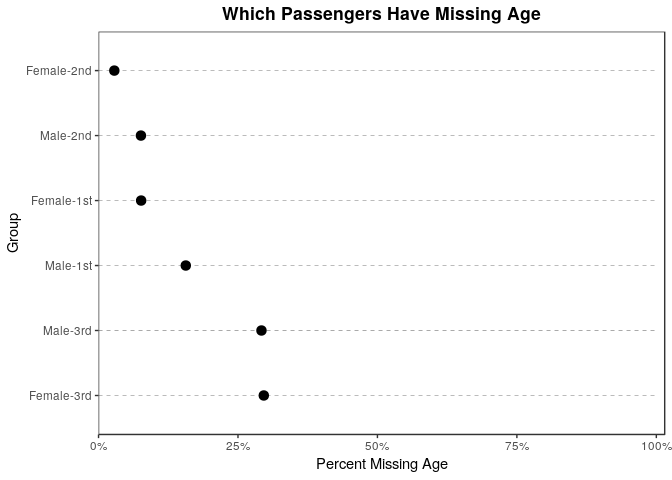
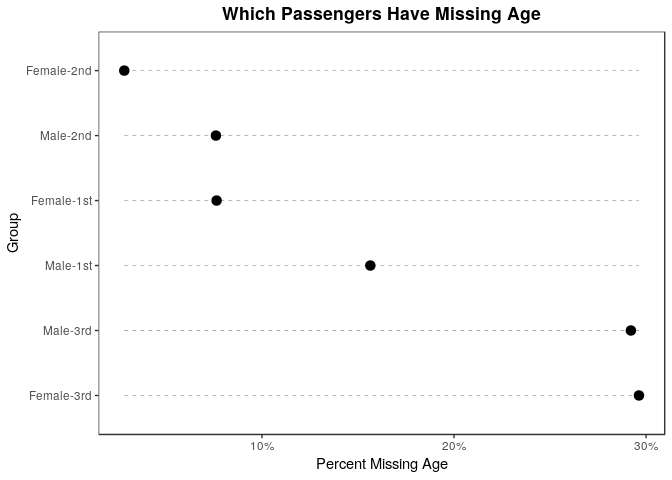
imp

diff --git a/source/Titanic.md b/source/Titanic.md
@@ -3,7 +3,8 @@ Modeling the Titanic Dataset
 Jesse Cambon
 20 August, 2018
 
--   [Exploratory Graphs](#exploratory-graphs)
+-   [Exploratory Analysis](#exploratory-analysis)
+-   [Imputation](#imputation)
 -   [Logistic Regression Model](#logistic-regression-model)
 -   [Linear Regression Model](#linear-regression-model)
 
@@ -25,6 +26,7 @@ library(xtable) # pretty table
 library(knitr)  
 library(kableExtra)
 library(tidyverse)
+library(rms)
 
 titanic <- titanic3 %>% as_tibble()
 
@@ -44,8 +46,8 @@ theme_set(theme_bw()+
             plot.title = element_text(lineheight=1, face="bold",hjust = 0.5)))
 ```
 
-Exploratory Graphs
-------------------
+Exploratory Analysis
+--------------------
 
 ``` r
 titanic_summ_dot <- titanic_summ %>%
@@ -53,7 +55,7 @@ titanic_summ_dot <- titanic_summ %>%
   mutate(group=str_c(sex,'-',pclass))
   
 # Analyze where age is missing
-titanic_miss <- titanic %>% dplyr::select(pclass,sex,age,survived) %>%
+titanic_miss <- titanic %>% select(pclass,sex,age,survived) %>%
   mutate(sex=capitalize(as.character(sex)),missing_age=is.na(age)) %>%
   group_by(pclass,sex) %>%
   dplyr::summarize(perc_missing=mean(missing_age)) %>%
@@ -104,11 +106,11 @@ ggplot(titanic_miss, aes(x=reorder(group,-perc_missing), y=perc_missing)) +
   geom_point(size=3,color='black') +   # Draw points
   theme(legend.position='none',
         panel.grid=element_blank()) +
-  scale_y_continuous(expand=c(0,0,0.015,0),labels=scales::percent) +
+  scale_y_continuous(labels=scales::percent) +
   geom_segment(aes(x=group,
                    xend=group,
-                   y=min(0),
-                   yend=max(1)),
+                   y=min(perc_missing),
+                   yend=max(perc_missing)),
                linetype="dashed", color='black',
                size=0.1) +   # Draw dashed lines
   labs(title="Which Passengers Have Missing Age") +  
@@ -118,6 +120,69 @@ ggplot(titanic_miss, aes(x=reorder(group,-perc_missing), y=perc_missing)) +
 ```
 
 ![](Titanic_files/figure-markdown_github/explore-3.png)
+
+Imputation
+----------
+
+<https://www.analyticsvidhya.com/blog/2016/03/tutorial-powerful-packages-imputing-missing-values/> <https://www.andrew.cmu.edu/user/aurorat/MIA_r.html>
+
+``` r
+library(mice)
+```
+
+    ## 
+    ## Attaching package: 'mice'
+
+    ## The following object is masked from 'package:tidyr':
+    ## 
+    ##     complete
+
+    ## The following objects are masked from 'package:base':
+    ## 
+    ##     cbind, rbind
+
+``` r
+# Use mice to impute data
+titanic_imputed <- mice(titanic %>% select(pclass,age,sex), m=10, maxit = 50, method = 'pmm', seed = 13,printFlag=F)
+
+# Add imputed Data
+titanic_imp <- complete(titanic_imputed,3) %>%
+  bind_cols(titanic %>% select(age,survived) %>% rename(age_orig=age)) %>%
+  mutate(imputed=case_when(is.na(age_orig) ~ 'Imputed', TRUE ~ 'Original'))
+
+
+# Plot
+ggplot(data=titanic_imp) +
+ geom_density(aes(x=age,color=imputed), alpha=0.8) + 
+  facet_grid(vars(sex),vars(pclass)) +
+  theme(legend.position='top') +
+    labs(title="Distributions of Original v. Imputed Age") +
+  guides(color=guide_legend(title=''))
+```
+
+![](Titanic_files/figure-markdown_github/imputation-1.png)
+
+``` r
+# titanic_imp <- titanic %>%
+  # select(survived,sex,pclass,age) %>%
+# titanic_imputed <- impute.transcan(impute_arg, imputation=1, data=iris.mis, list.out=TRUE,pr=FALSE, check=FALSE) 
+
+
+
+
+
+
+# imp_obj <- aregImpute(~age + pclass + sex, data = titanic, n.impute = 5)
+# 
+# titanic_imp <- titanic %>%
+#   mutate(imputed_age=imp_obj$imputed$age)
+
+
+# Imputate with k nearest neighbors method
+# imp_model <- preProcess(titanic %>% select(pclass,survived,sex,age), method = c("knnImpute"))
+# library(RANN) # nearest neighbors library
+# titanic_imputed <- predict(imp_model,titanic %>% select(pclass,survived,sex,age))
+```
 
 Logistic Regression Model
 -------------------------
